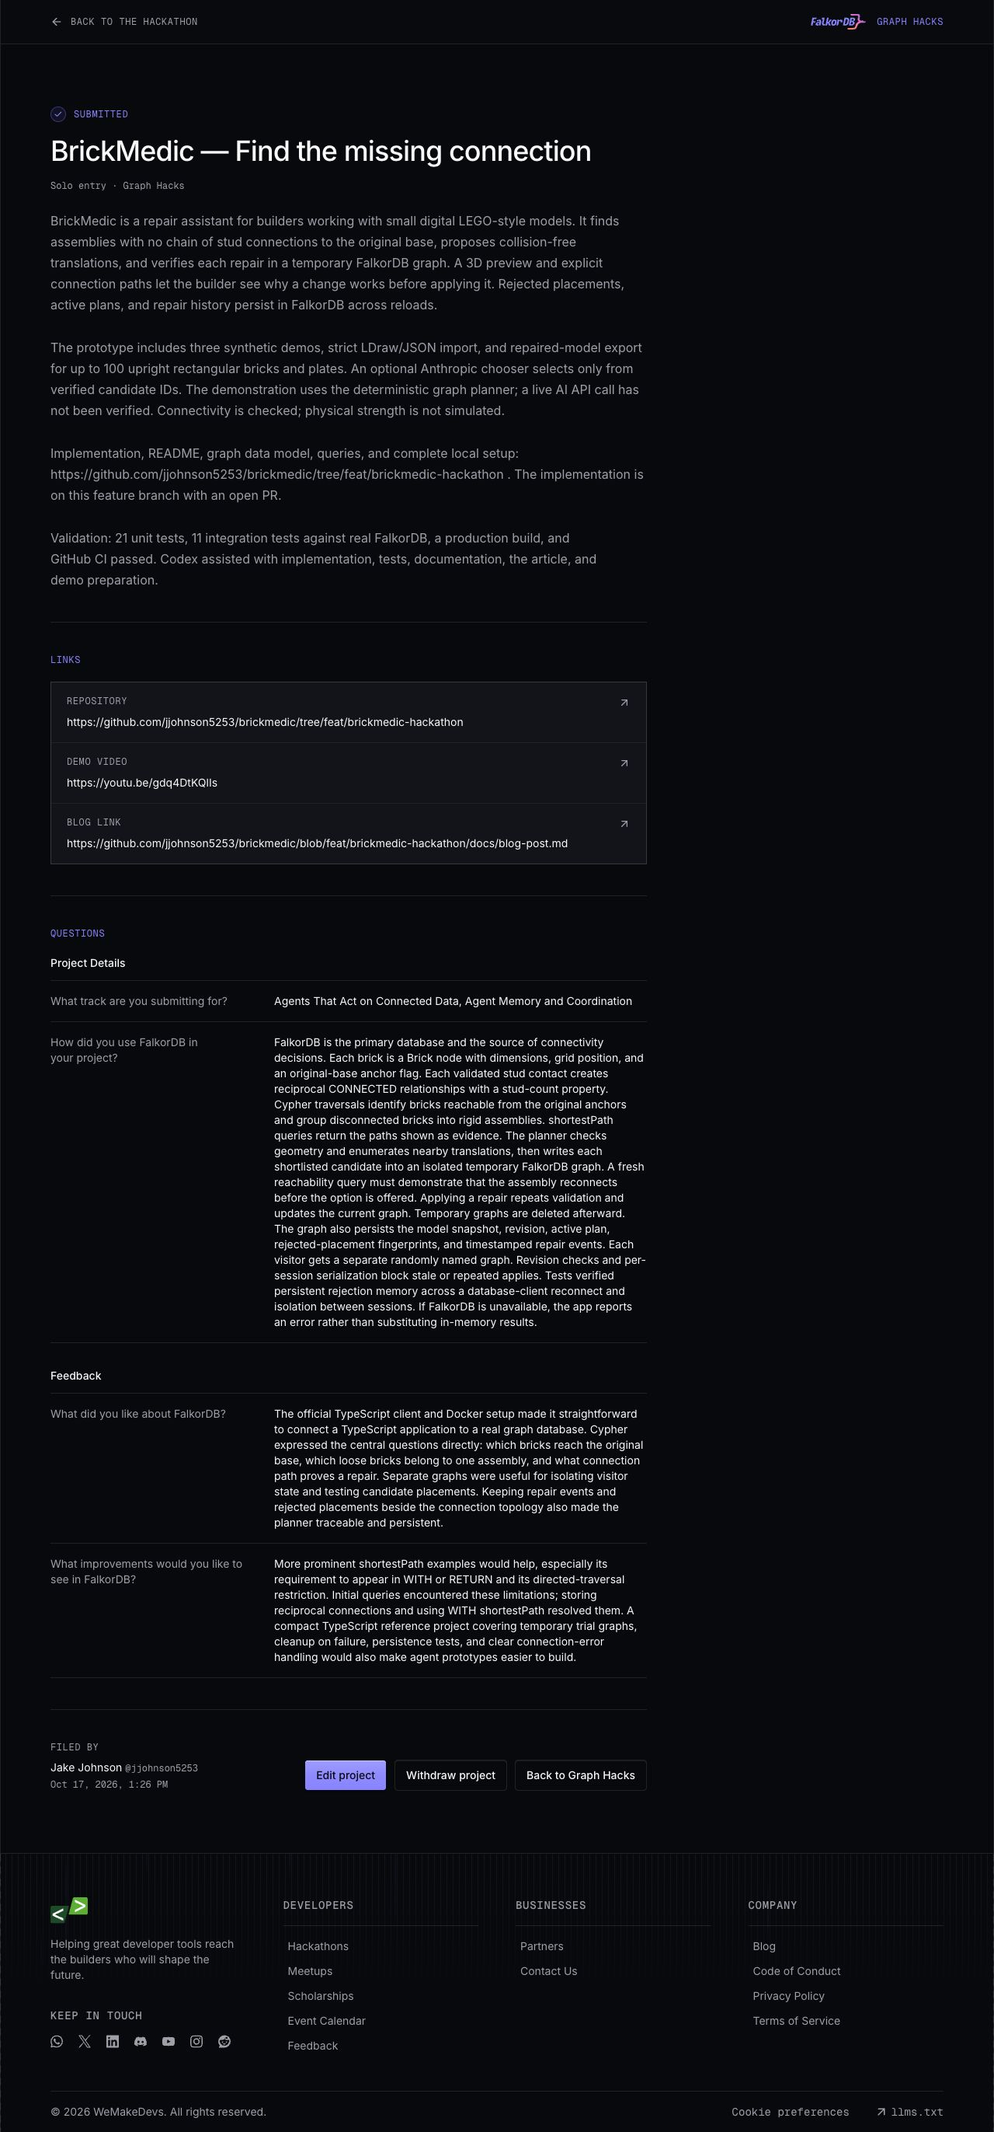
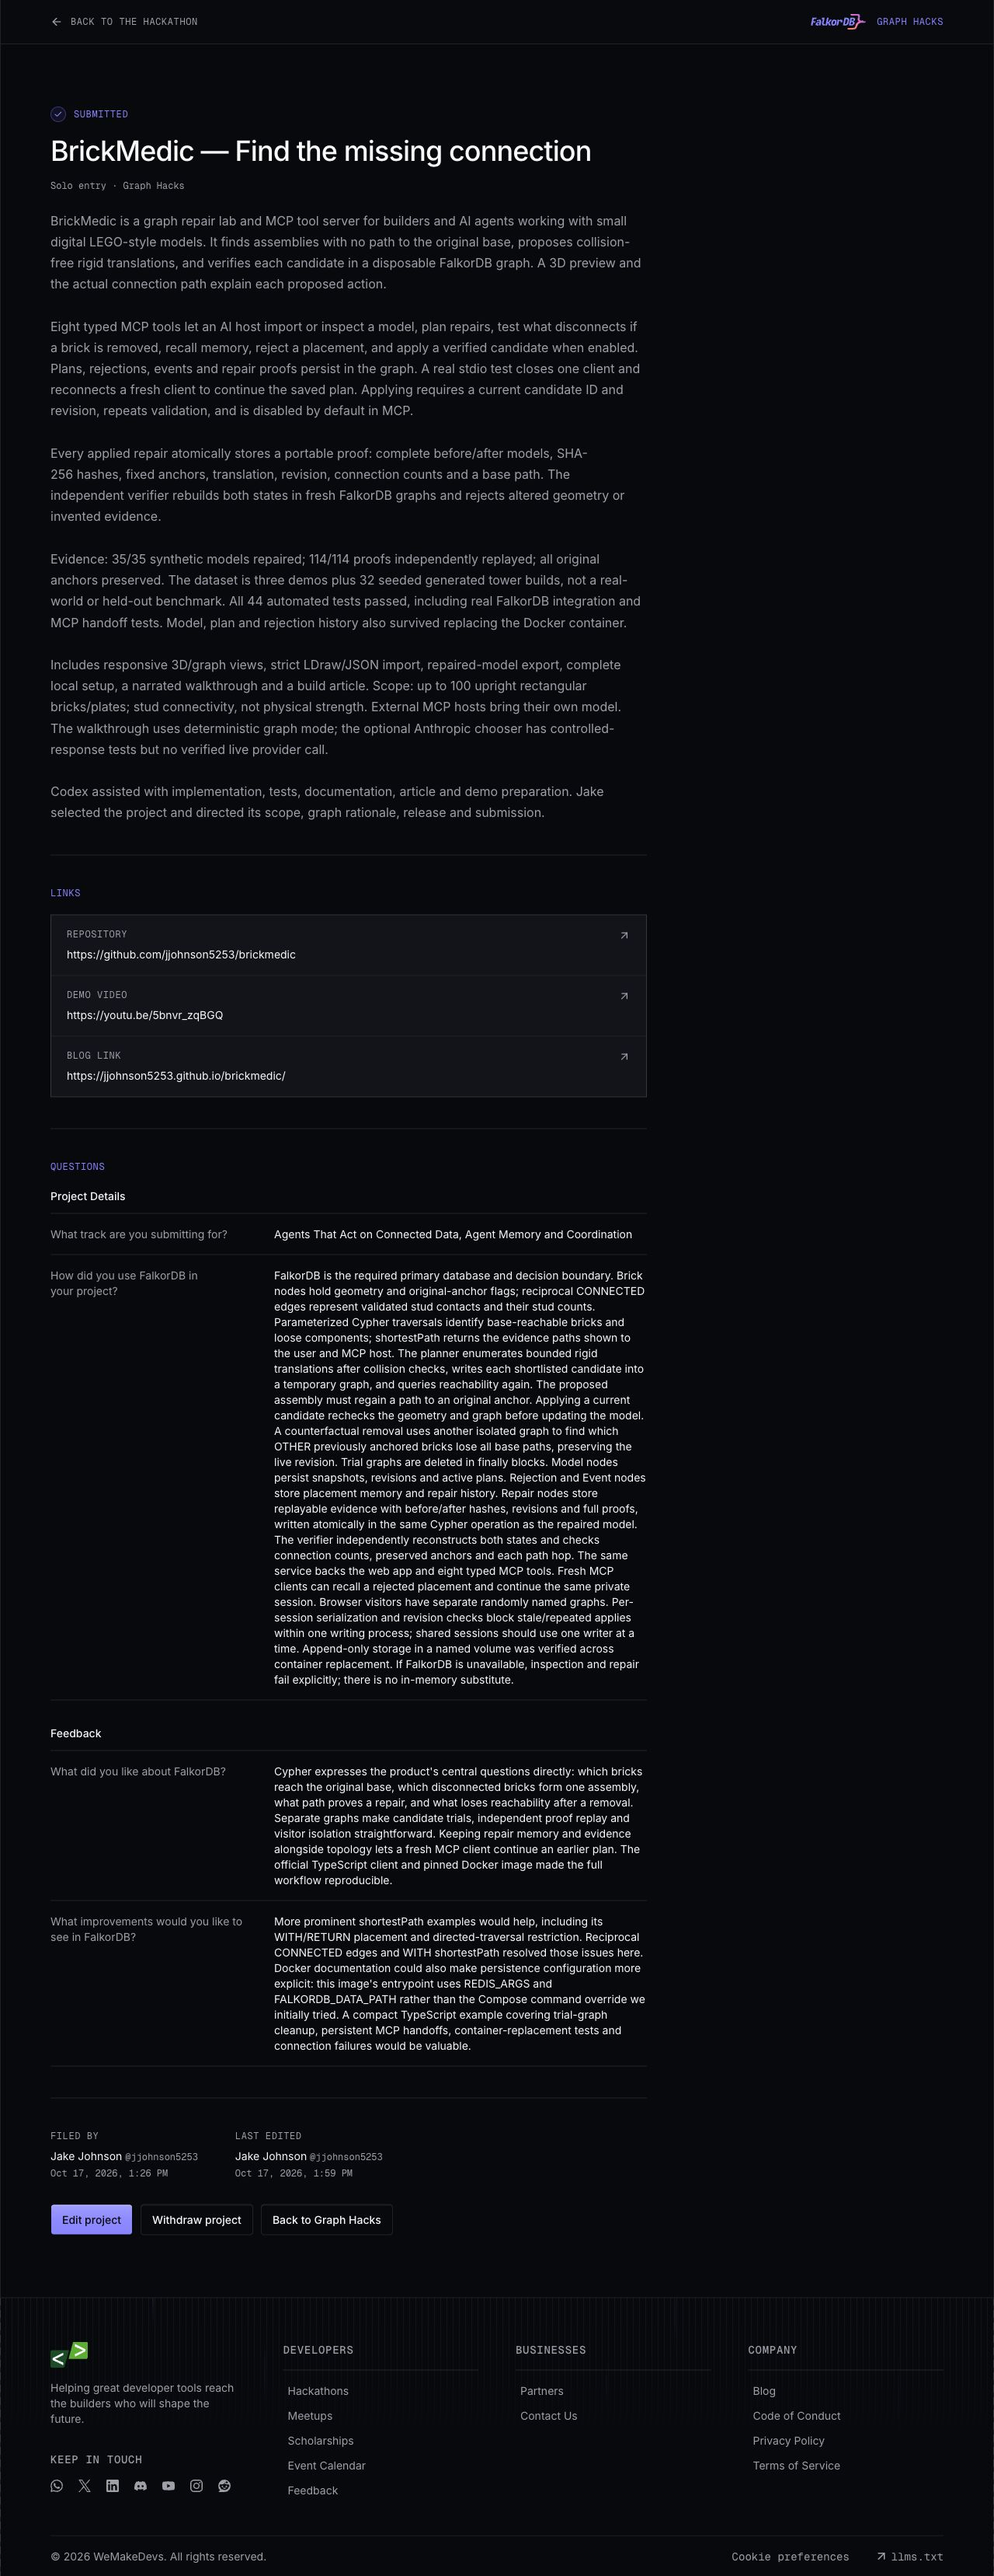
Record released demo, published article, and confirmed submission (#2)

diff --git a/docs/submission.md b/docs/submission.md
@@ -1,63 +1,61 @@
 # BrickMedic submission
 
-**Project:** BrickMedic — a graph-powered repair agent for disconnected brick assemblies.
+**Status:** Submitted as a solo entry and updated on October 17, 2026 at 1:59 PM America/Chicago. The saved WeMakeDevs record was read back with the revised description, both tracks, released repository, new demo and published blog. Source is merged into the repository's default `main` branch.
+
+**Project:** BrickMedic — Find the missing connection
 
 **Author:** Jake Johnson
 
-**Status:** Submitted as a solo entry on October 17, 2026. The saved WeMakeDevs record was read back and confirmed with the project title, both tracks, repository branch, demo video, and blog link.
+**Tracks:** Agents That Act on Connected Data; Agent Memory and Coordination.
 
-**Primary track:** Agents That Act on Connected Data
+## Released artifacts
 
-**Secondary track:** Agent Memory and Coordination. The prototype persists plans, rejected placements, and history across reconnects; it does not implement multiple collaborating agents.
+- [Public repository](https://github.com/jjohnson5253/brickmedic)
+- [Published build article](https://jjohnson5253.github.io/brickmedic/)
+- [Unlisted YouTube demo, 1:51](https://youtu.be/5bnvr_zqBGQ)
+- [Original narrated demo file](brickmedic-demo.mp4) and [narration](demo-script.md)
+- [MCP setup and eight tools](agent-tools.md)
+- [Evaluation results](evidence/evaluation.json), [example proof](evidence/repair-proof.json), and [container durability result](evidence/durability.json)
+- [Saved submission fields](evidence/submission.json) and [confirmation screenshot](submission-confirmation.jpg)
+- [Manage the submitted entry](https://www.wemakedevs.org/hackathons/falkordb/submit), requiring the author's account
 
-## Short description
+The complete local setup is the application submission path. The public GitHub Pages site hosts the article and evidence, rather than a live database-backed application.
 
-BrickMedic finds brick assemblies with no connection path to the original base, proposes collision-free translations, and verifies each candidate in a temporary FalkorDB graph. A 3D preview and explicit connection paths let the user inspect a repair before applying it. The optional AI chooser selects only from verified candidate IDs. The default deterministic graph planner is fully usable without an AI key.
+## What the entry demonstrates
 
-## Links and artifacts
+BrickMedic finds assemblies with no connection path to the original base, proposes bounded collision-free translations, and verifies candidates in temporary FalkorDB graphs. A responsive 3D preview and explicit base path explain the proposed action. Strict LDraw/JSON import and repaired-model export support up to 100 upright rectangular bricks and plates.
 
-- [Public repository and implementation branch](https://github.com/jjohnson5253/brickmedic/tree/feat/brickmedic-hackathon)
-- [README with setup, graph data model, and Cypher](../README.md)
-- [Build post](blog-post.md)
-- [Unlisted YouTube demo submitted to the hackathon](https://youtu.be/gdq4DtKQlIs)
-- [Original demo video file](brickmedic-demo.mp4)
-- [Model examples](../public/models)
-- [Submission confirmation screenshot](submission-confirmation.jpg)
-- [Manage the submitted entry on WeMakeDevs](https://www.wemakedevs.org/hackathons/falkordb/submit) (requires the author's account)
+Eight typed MCP tools let an AI host load or import a model, inspect it, plan repairs, test removal impact, recall memory, reject a placement, and apply a verified candidate when enabled. The server owns the session scope and repair validation. Applying through MCP is disabled by default; the owner must opt in and the host should ask for user approval.
 
-This submission uses complete local setup instructions. No public application deployment has been claimed. The implementation is in an open pull request awaiting the author's review and merge under the author's protected-branch policy.
+FalkorDB persists plans, rejected-placement fingerprints, events and repair proofs. An integration test closes one MCP client and reconnects a fresh client to continue the saved plan. This demonstrates a protocol handoff and persistent memory with scripted clients; it does not claim autonomous language-model collaboration. Shared sessions should use one writing process at a time.
 
-## Demo walkthrough
+Every applied repair atomically stores both model states, normalized SHA-256 hashes, original anchors, movement, revisions, counts and a verified base path. The independent verifier rebuilds both states in fresh FalkorDB graphs and checks the evidence again. A removal counterfactual deletes a selected brick only in a disposable graph, then reports other previously anchored bricks that lose all base paths.
 
-The included video uses screenshots captured from the working local application, sequenced with explanatory captions. It demonstrates deterministic graph mode. Reproduce it interactively:
+## Reproduce the walkthrough
 
-1. Start Docker, run `npm ci`, `npm run db:up`, and `npm run dev`.
-2. Open `http://127.0.0.1:4317`. Load **Space Cadet**.
-3. Observe 10 connected bricks out of 12 and one loose assembly.
-4. Click **Inspect & find repairs**. The preferred candidate moves the wing one stud left and two plates down.
-5. Open **Graph evidence** to see the reachability query and a proposed connection path.
-6. Click **Apply verified repair**. The graph now verifies 12 connected bricks out of 12.
-7. Open **Connection graph** and select a brick to highlight its path to an anchor.
-8. Download the repaired `.ldr`. Load Garden House or Little Rover to try another repair.
-9. To demonstrate persistent memory, inspect a model, skip a placement, reload the page, and inspect again. That placement remains excluded at the same revision.
+1. Follow the [README setup](../README.md#run-locally) and load Space Cadet. Expect 10 of 12 bricks connected.
+2. Inspect the model. The best-ranked repair moves the two-brick wing one stud left and two plate units down.
+3. Open Graph evidence to inspect the Cypher query and proposed base path.
+4. Apply the verified repair. All 12 bricks now have paths to the original anchors.
+5. In Connection graph, select the starboard wing and choose **What if I remove this brick?** Its tip loses connectivity in the trial; the live model stays unchanged.
+6. Download the proof and run `npm run verify -- brickmedic-repair-proof.json`.
+7. Follow the [MCP handoff walkthrough](agent-tools.md#a-repair-and-handoff-walkthrough), or run `npm run test:integration` for the scripted protocol test.
 
-## Verification
+The video uses screenshots captured from the working local app, explanatory tool/evaluation cards, captions and synthetic narration. It demonstrates deterministic graph mode. External MCP hosts supply their own model. The optional Anthropic web chooser was tested with controlled responses; no live provider call is claimed.
 
-The local validation passed 21 unit tests and 11 tests against a real FalkorDB container. All synthetic models were fully reconnected: Space Cadet in one repair, Garden House in one repair, and Little Rover in two repairs. Tests also cover rejections, reconnecting a database client, session isolation, stale and concurrent applies, controlled AI selection and failure handling, invalid imports, exports, and temporary-graph cleanup.
+## Validation
 
-The AI adapter was verified with controlled chooser implementations; a live Anthropic request was not run. API-key-free screenshots and the video are labeled deterministic mode. Desktop and phone viewport checks accompany the code checks.
+- **44 passing tests:** 30 unit tests and 14 real-FalkorDB integration tests.
+- **35/35 synthetic models repaired:** three authored demos plus 32 seeded generated tower models, not a real-world or held-out benchmark.
+- **114/114 repair proofs independently replayed**, with all original anchors preserved.
+- Model, revision, active plan and rejection history survived replacing the Docker container with append-only persistence in its named volume.
+- Clean dependency install, TypeScript, production build and GitHub CI passed. The dependency audit reported zero vulnerabilities.
+- Desktop and 390-pixel phone layouts were checked, including counterfactual results and proof downloads. The published article's images and assets loaded successfully.
 
-## AI assistance disclosure
+## AI assistance and scope
 
-Codex assisted with implementation, tests, prose, screenshots, and video preparation. The participant remains responsible for reviewing and understanding the implementation. This assistance was disclosed in the submitted description and YouTube video description. All included data is synthetic. BrickMedic checks the supported stud-connection geometry; it does not simulate physical strength or arbitrary LEGO connectors.
+Codex assisted with implementation, tests, documentation, article and demo preparation. Jake selected the project and directed its scope, graph rationale, public release and submission. AI assistance is disclosed in the entry, article, README and video description.
 
-## Submission checklist
+All included models are synthetic. BrickMedic checks supported stud connectivity, not clutch strength, stress, gravity, legal assembly order, arbitrary connectors or the complete LEGO catalog. LEGO is a trademark of the LEGO Group; the project is independent.
 
-- Public source repository: submitted with the implementation branch URL.
-- README, graph data model, queries, local setup, and demo: included.
-- Build post for the blog prize: included.
-- Live hosted deployment: not included; local setup is the chosen submission path.
-- Track selection and final event submission: completed and verified on October 17, 2026.
-- Code pull request: remains open for participant review and merge.
-
-Deadline: **October 18, 2026, 11:59 PM IST**, equivalent to **1:29 PM America/Chicago**. See the [official schedule](https://www.wemakedevs.org/hackathons/falkordb/schedule).
+The [official deadline](https://www.wemakedevs.org/hackathons/falkordb/schedule) is October 18, 2026 at 11:59 PM IST, equivalent to 1:29 PM America/Chicago.

diff --git a/README.md b/README.md
@@ -17,7 +17,7 @@ Built by Jake Johnson for [Graph Hacks 2026](https://www.wemakedevs.org/hackatho
 - Import supported LDraw `.ldr` or BrickMedic JSON; download the current model as LDraw.
 - Optionally use Anthropic to select among verified repairs. The default graph planner requires no AI key.
 
-**[Read the published build post](https://jjohnson5253.github.io/brickmedic/)** · **[Narrated walkthrough](docs/brickmedic-demo.mp4)** · **[YouTube demo](https://youtu.be/gdq4DtKQlIs)** · **[Submission details and receipt](docs/submission.md)**
+**[Read the published build post](https://jjohnson5253.github.io/brickmedic/)** · **[Narrated walkthrough](docs/brickmedic-demo.mp4)** · **[YouTube demo](https://youtu.be/5bnvr_zqBGQ)** · **[Submission details and receipt](docs/submission.md)**
 
 ## Evidence in three minutes
 

diff --git a/docs/blog-post.md b/docs/blog-post.md
@@ -6,6 +6,8 @@ A small brick spaceship can look finished while its wing is floating a fraction 
 
 I built **BrickMedic** to make that question visible. It inspects a model, finds disconnected assemblies, proposes a translation, and verifies the repaired model in FalkorDB. You can orbit the build, preview the proposed placement, and follow the connection path behind the recommendation.
 
+[Watch the 1:51 narrated walkthrough](https://youtu.be/5bnvr_zqBGQ), or [run the project locally](https://github.com/jjohnson5253/brickmedic#run-locally).
+
 ![BrickMedic showing a verified placement for a detached spaceship wing](screenshots/repair-preview.jpg)
 
 ## Turning a brick model into a graph
